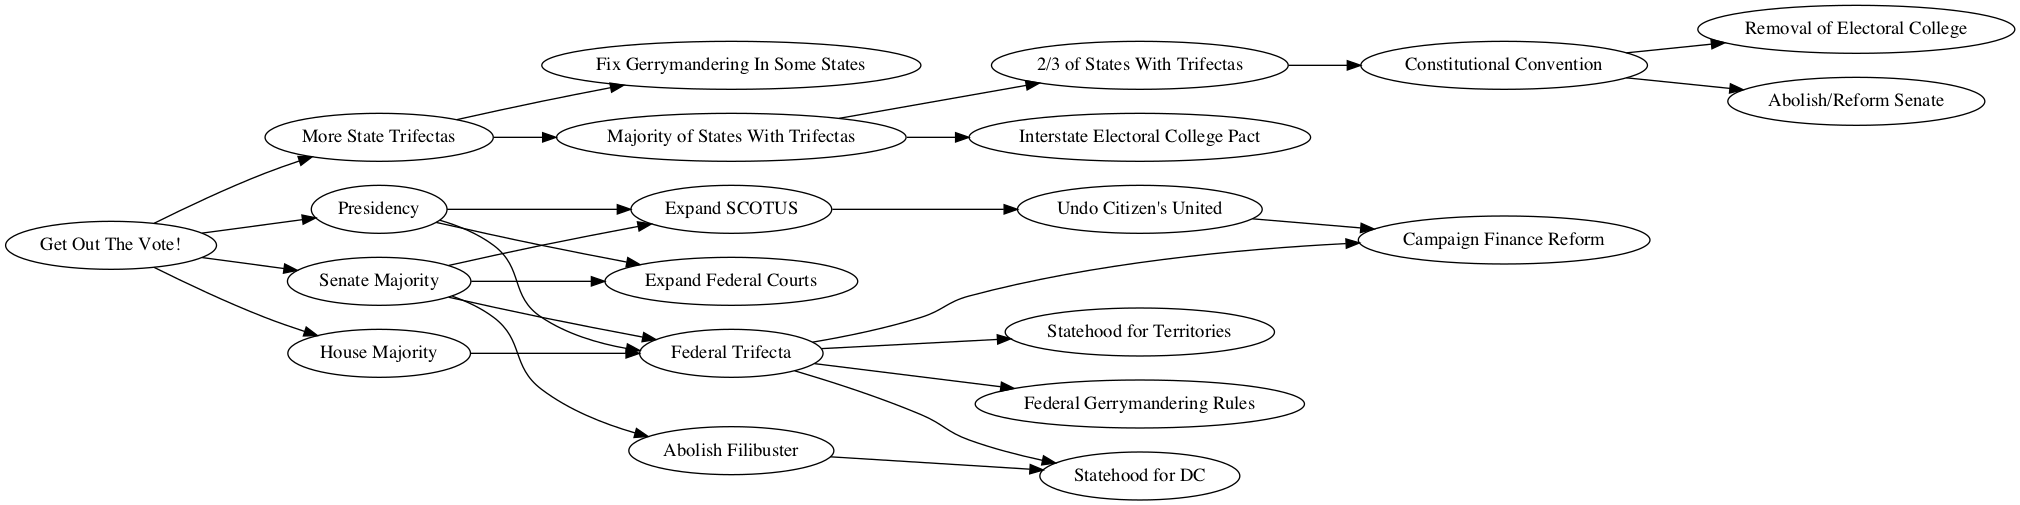
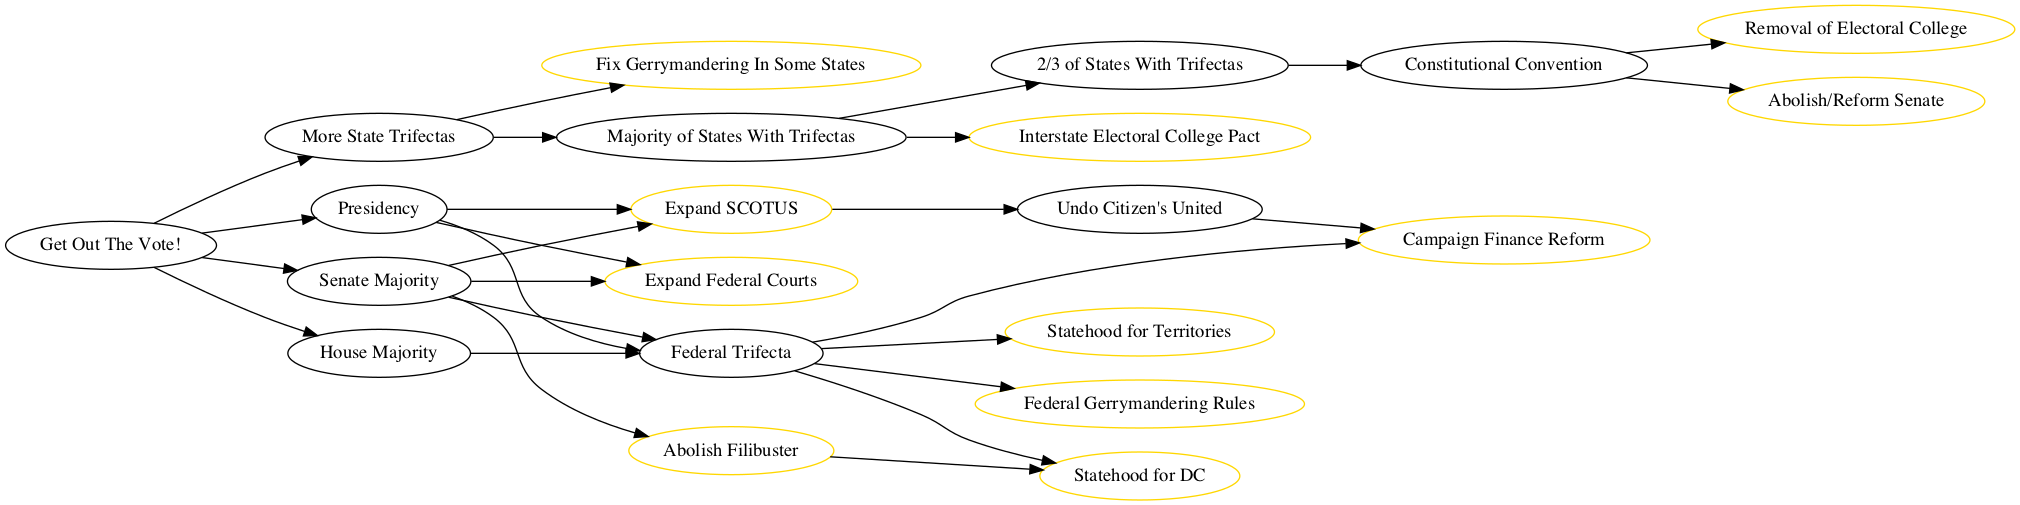
gold color for "things that improve democratic representation"

diff --git a/code.rb b/code.rb
@@ -17,19 +17,19 @@ goals = [
   # representation = g.add_node( "More Accurate Federal Representation" ),
   campaign_finance = g.add_node( "Campaign Finance Reform" ),
   # elections = g.add_node( "Fair and Accessible Elections" ),
+  gerrymandering_fed = g.add_node("Federal Gerrymandering Rules"),
+  gerrymandering_state = g.add_node("Fix Gerrymandering In Some States"),
+  ec_pact = g.add_node("Interstate Electoral College Pact"),
+  remove_ec = g.add_node("Removal of Electoral College"),
+  territories = g.add_node("Statehood for Territories"),
+  dc = g.add_node("Statehood for DC"),
+  senate = g.add_node( "Abolish/Reform Senate" ),
+  filibuster = g.add_node( "Abolish Filibuster" ),
 ]
-# goals.each{|g| g[:color => 'gold']}
+goals.each{|g| g[:color => 'gold']}
 
 citizens_united = g.add_node( "Undo Citizen's United" )
-gerrymandering_fed = g.add_node("Federal Gerrymandering Rules")
-gerrymandering_state = g.add_node("Fix Gerrymandering In Some States")
-ec_pact = g.add_node("Interstate Electoral College Pact")
-remove_ec = g.add_node("Removal of Electoral College")
-dc = g.add_node("Statehood for DC")
-territories = g.add_node("Statehood for Territories")
 # irv = g.add_node("Instant Runnoff Voting or Similar")
-senate = g.add_node( "Abolish/Reform Senate" )
-filibuster = g.add_node( "Abolish Filibuster" )
 fed_trifecta = g.add_node( "Federal Trifecta" )
 
 # dependencies
